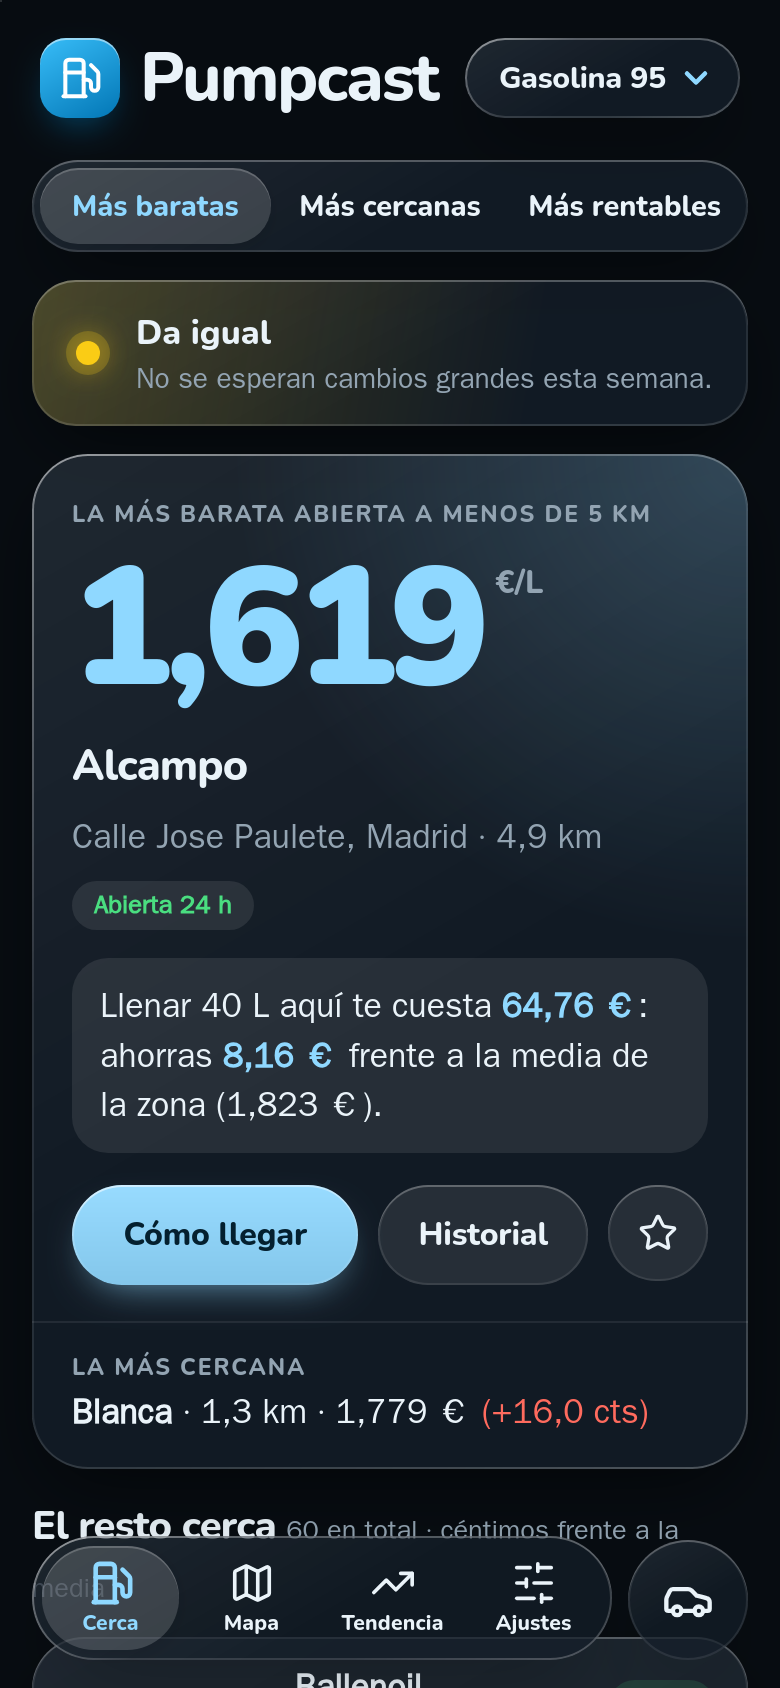
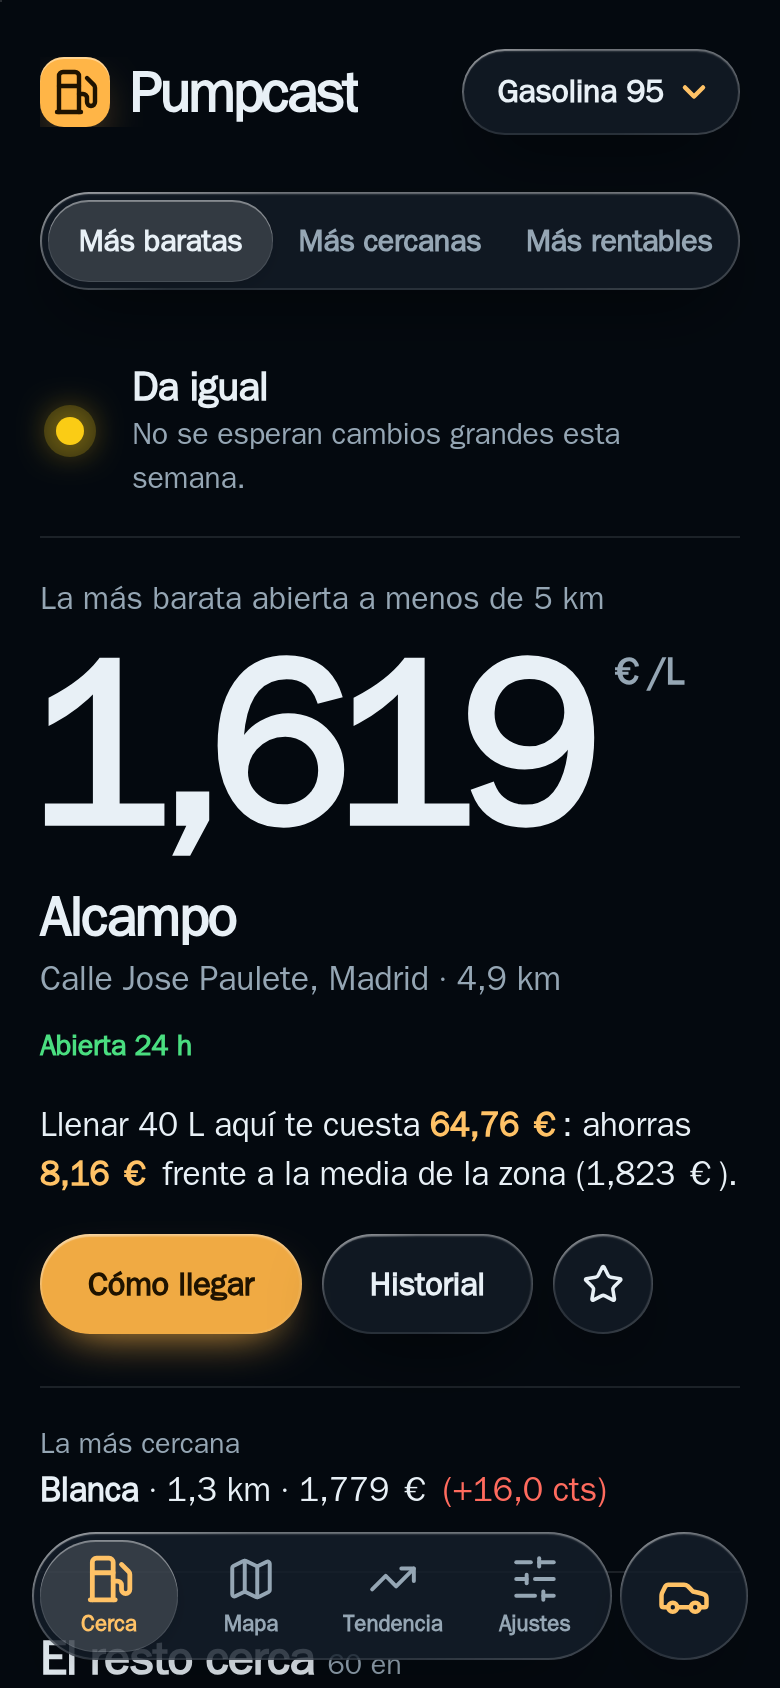
2.17.2: capturas nuevas y hojas que no se quedan invisibles
- Las capturas del README, rehechas con el estilo sin tarjetas (castellano e inglés, claro y oscuro).
- Las hojas (combustible, elegir mapa, instalar) y los pasos de la bienvenida entran solo
  moviéndose: en WebKit, una animación que parte de opacidad 0 podía dejarlas invisibles.

diff --git a/app/static/estilo.css b/app/static/estilo.css
@@ -441,7 +441,7 @@ details.avanzado summary { color: var(--suave); font-size: .95rem; cursor: point
   border-radius: 34px; padding: 24px 20px 20px; width: min(440px, calc(100% - 24px)); color: var(--texto);
 }
 .hoja[open] { animation: aparecer .5s var(--muelle); }
-@keyframes aparecer { from { transform: translateY(24px) scale(.96); opacity: 0; } }
+@keyframes aparecer { from { transform: translateY(24px) scale(.96); } }   /* sin opacidad: en WebKit la hoja se quedaba invisible */
 .hoja::backdrop { background: rgb(4 9 15 / .32); }
 .hoja h2 { text-align: center; }
 .hoja .boton { display: flex; text-align: center; margin-bottom: 8px; }
@@ -533,7 +533,7 @@ html .leaflet-touch .leaflet-bar a { background: var(--cristal-fuerte); -webkit-
   max-width: 520px; margin: 0 auto; padding: 20px; border-radius: 34px;
   animation: subir .5s var(--muelle);
 }
-@keyframes subir { from { transform: translateY(24px); opacity: 0; } }
+@keyframes subir { from { transform: translateY(32px); } }
 @media (prefers-reduced-motion: reduce) { .hoja-instalar, .hoja[open], .hoja-comb:popover-open { animation: none; } }
 .cabeza-instalar { display: flex; gap: 12px; align-items: center; margin-bottom: 10px; }
 .cabeza-instalar img { border-radius: 11px; flex: none; }
@@ -668,7 +668,7 @@ html .con-mapa .mapa.leaflet-container { background: var(--fondo); }
 .paso legend { font: 600 1.4rem var(--titular); letter-spacing: -.02em; padding: 0; margin-bottom: 14px; }
 .paso .icono { width: 1.1em; height: 1.1em; }
 .paso:not([hidden]) { animation: entrar .45s var(--muelle); }
-@keyframes entrar { from { opacity: 0; transform: translateX(18px); } }
+@keyframes entrar { from { transform: translateX(18px); } }
 @media (prefers-reduced-motion: reduce) { .paso:not([hidden]) { animation: none; } }
 .opciones { display: flex; flex-wrap: wrap; gap: 8px; margin-bottom: 16px; }
 .opcion { position: relative; cursor: pointer; }
